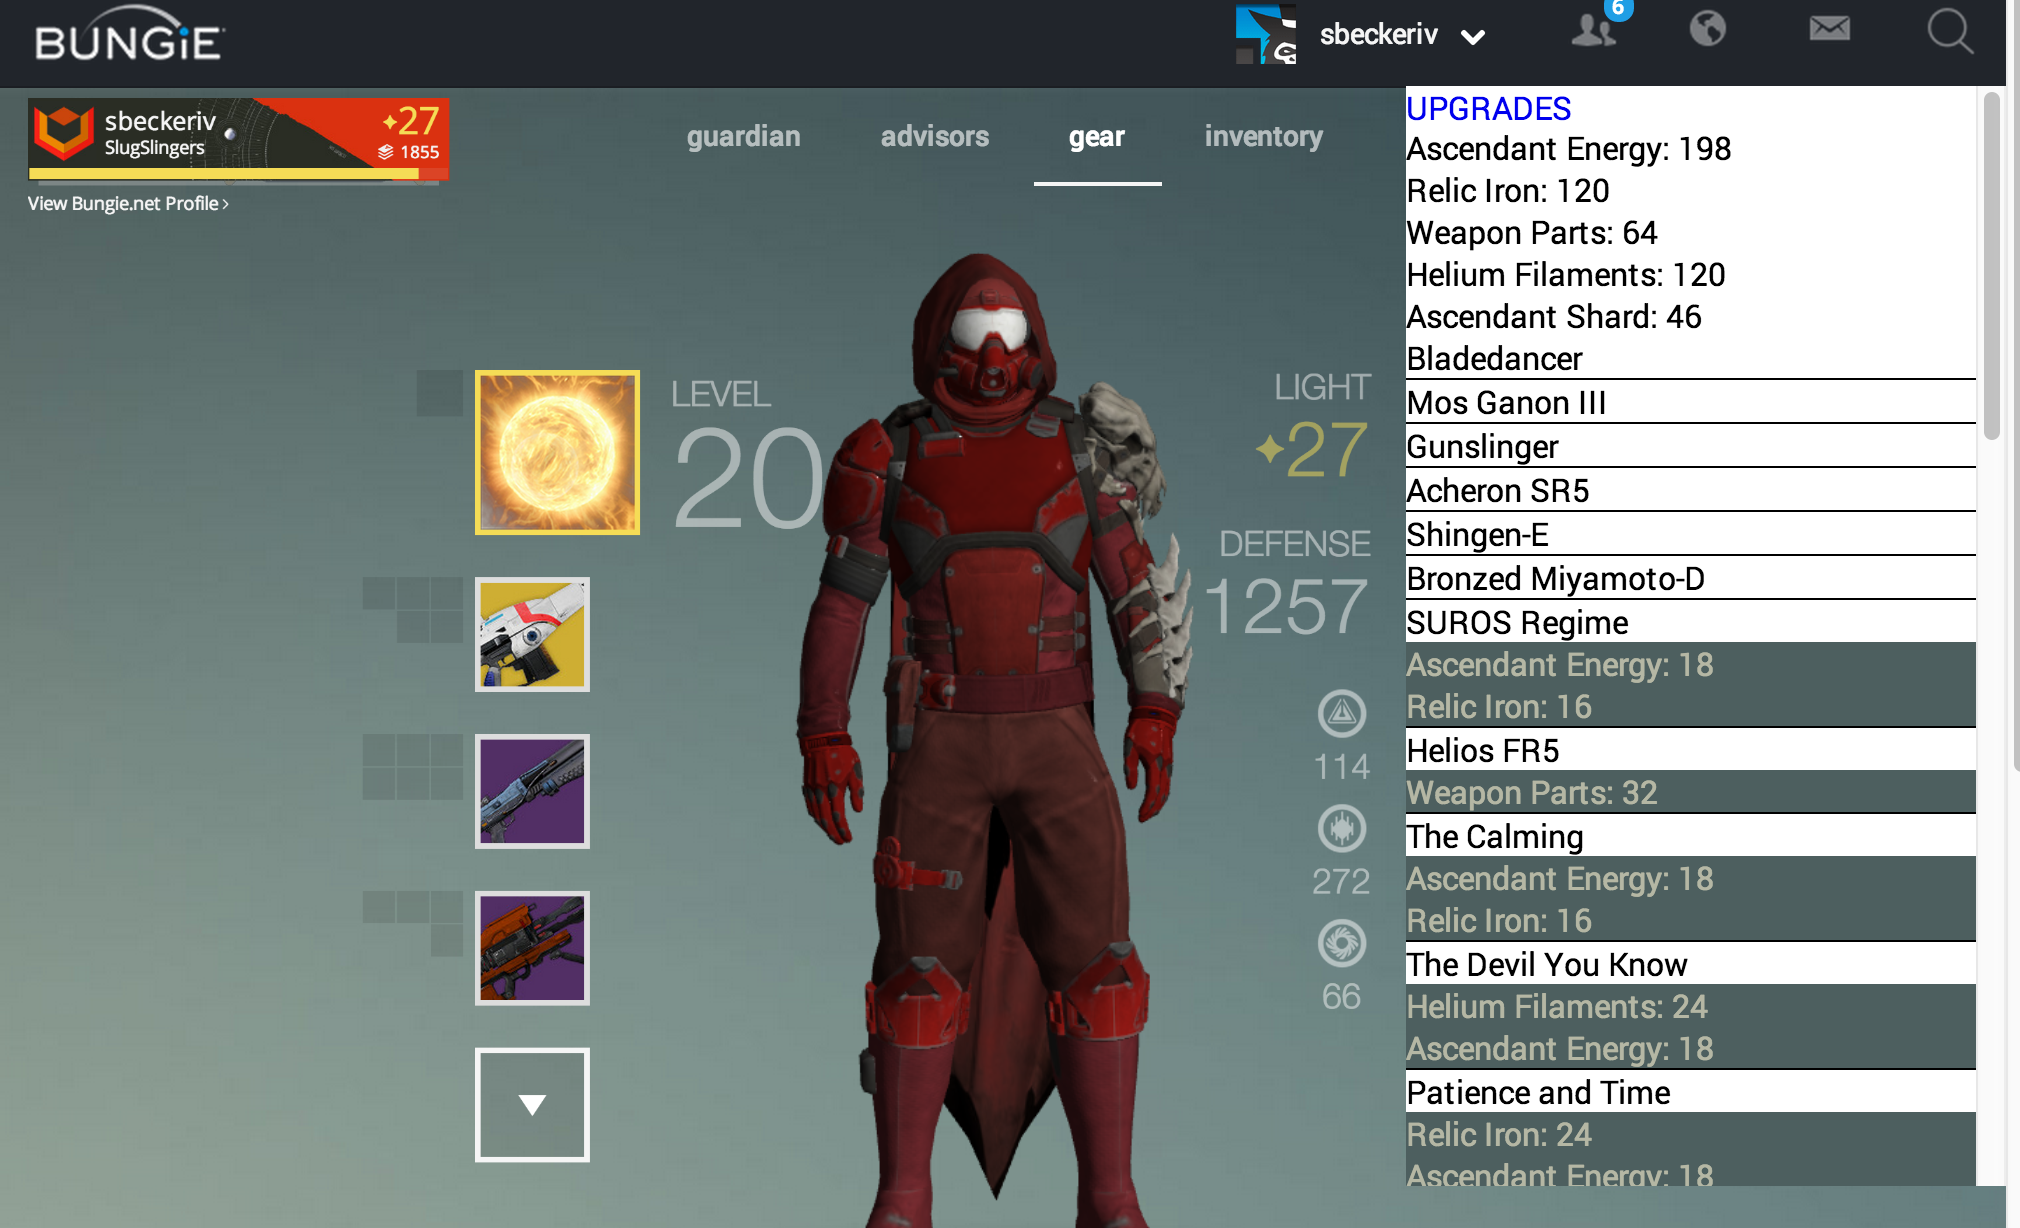
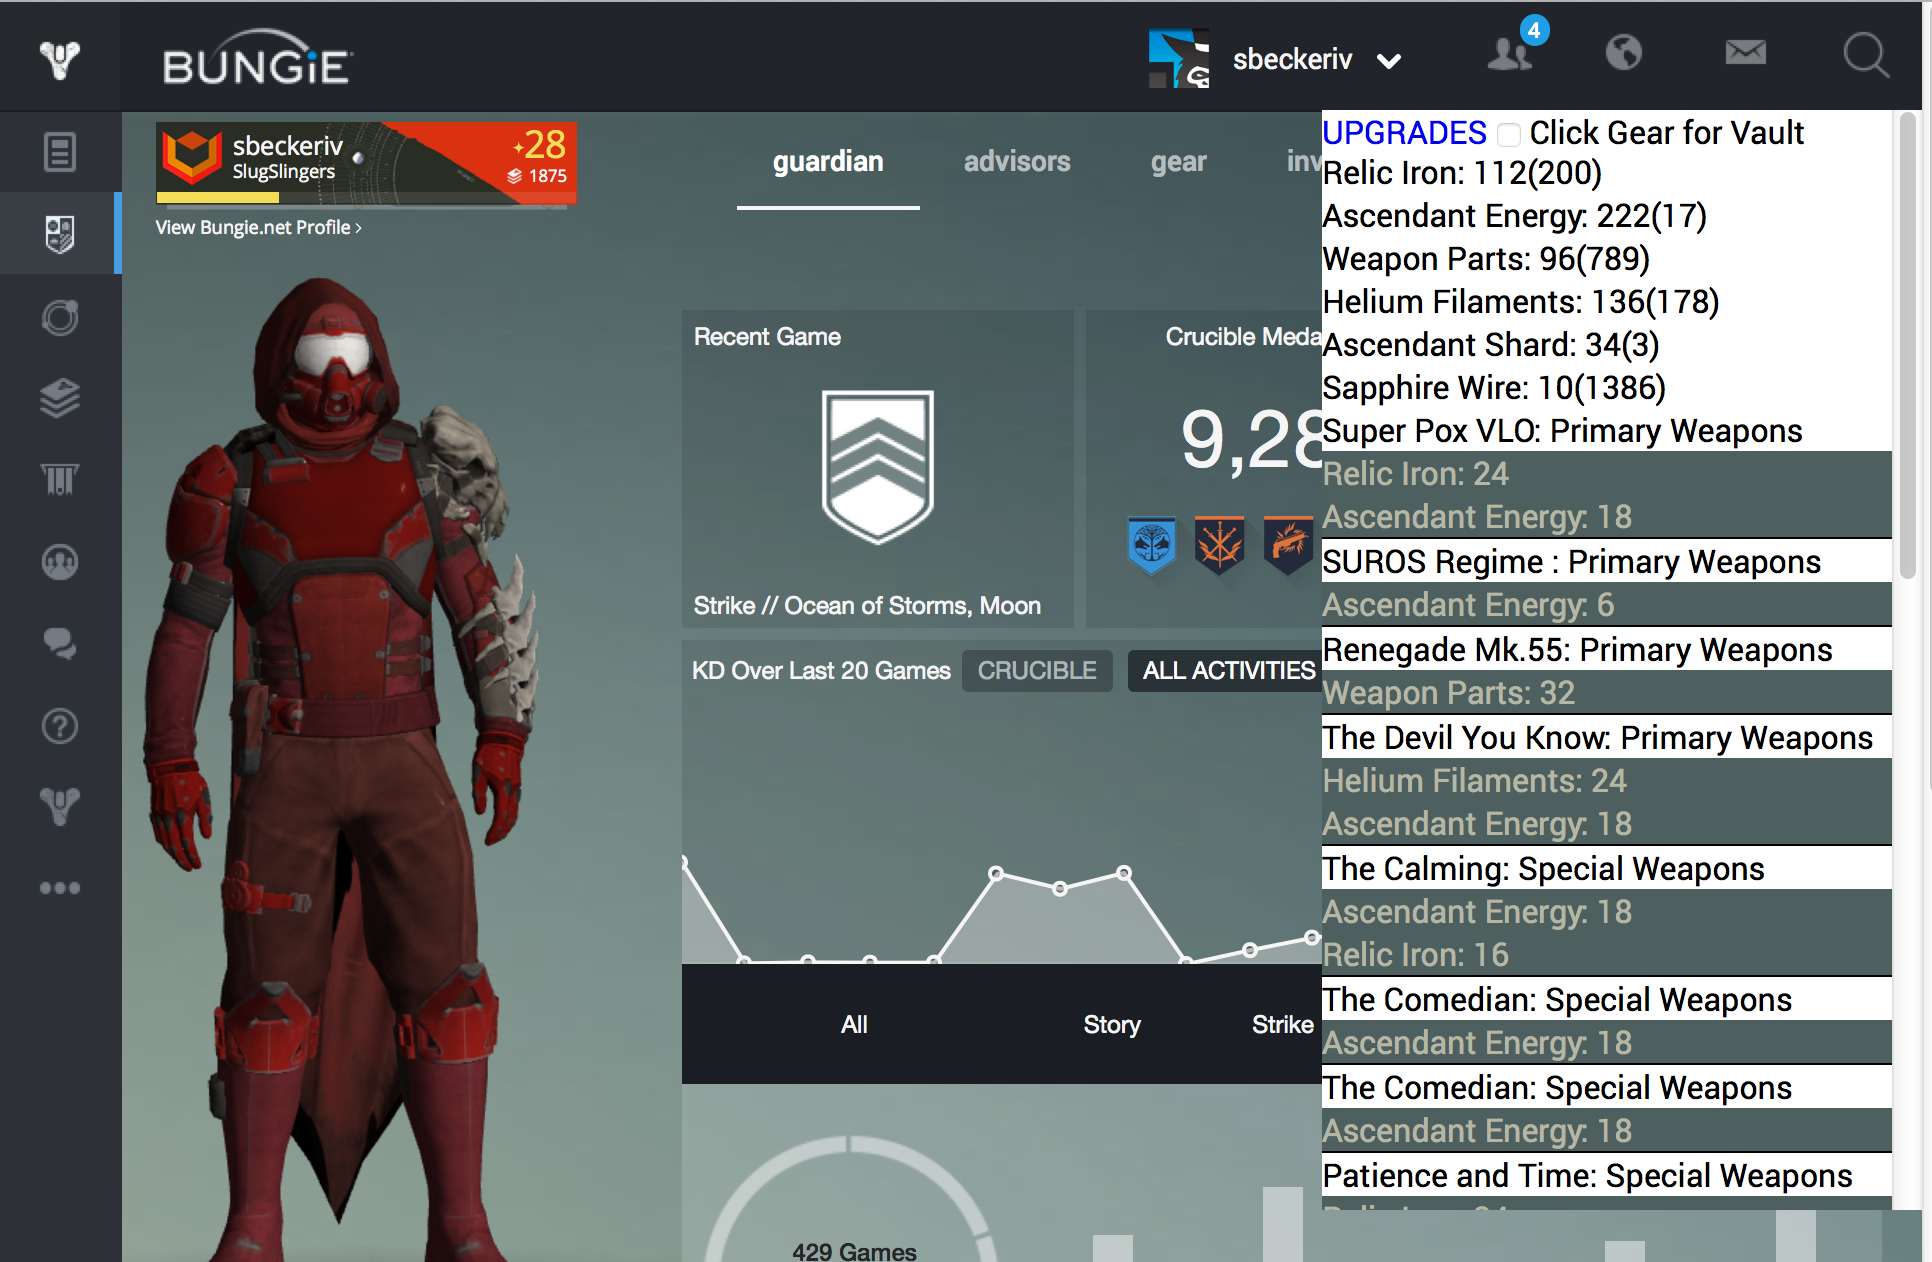
Image updates

diff --git a/README.md b/README.md
@@ -1,4 +1,3 @@
-
 Bookmarklet to display upgrade material counts on the character page.
 ======================
 
@@ -35,6 +34,9 @@ Open
 ![open](http://sbeckeriv.github.io/destiny-upgrade-counts/open.png)
 
 Not Open
+![not open](http://sbeckeriv.github.io/destiny-upgrade-counts/close.png)
+
+Active vault
 ![not open](http://sbeckeriv.github.io/destiny-upgrade-counts/close.png)
 ====================
 
